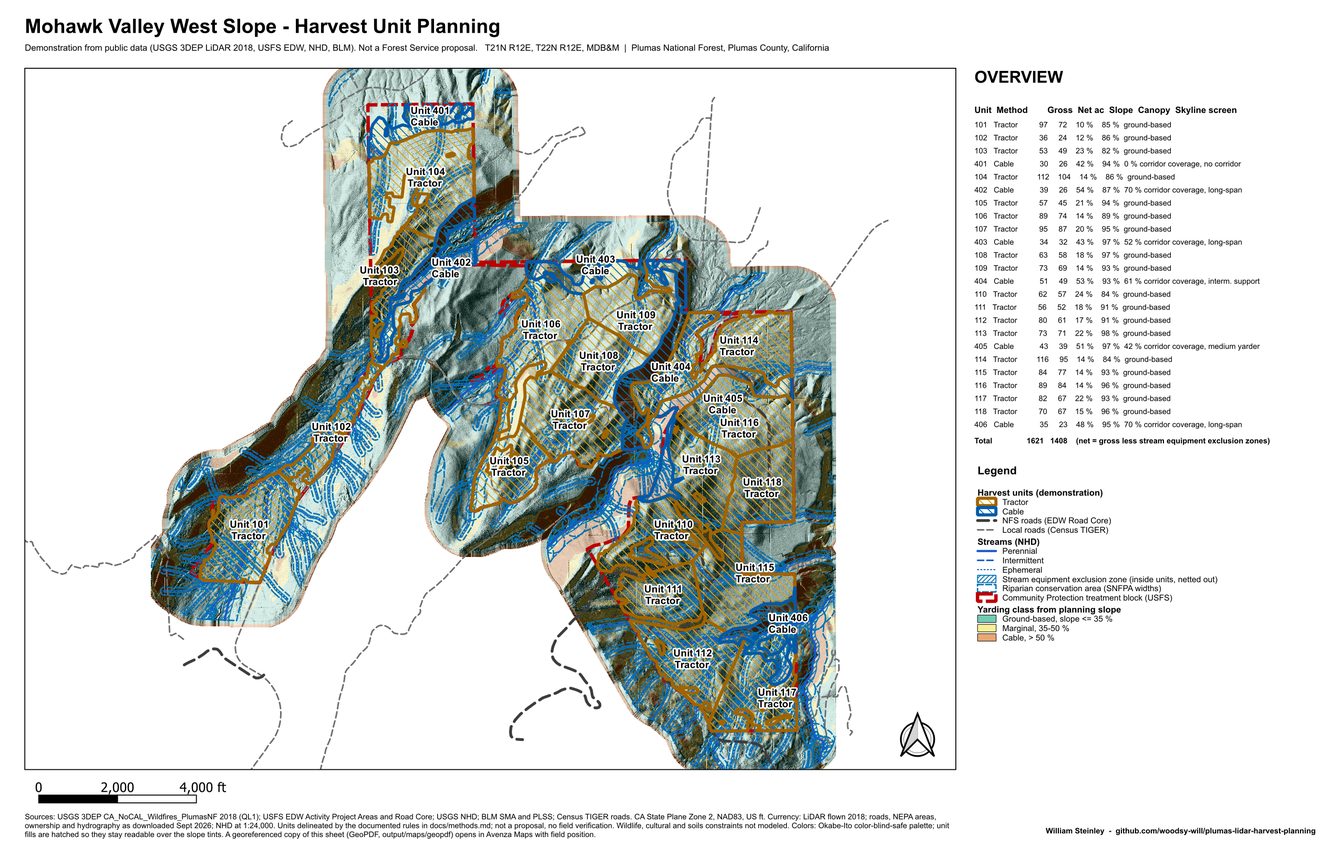
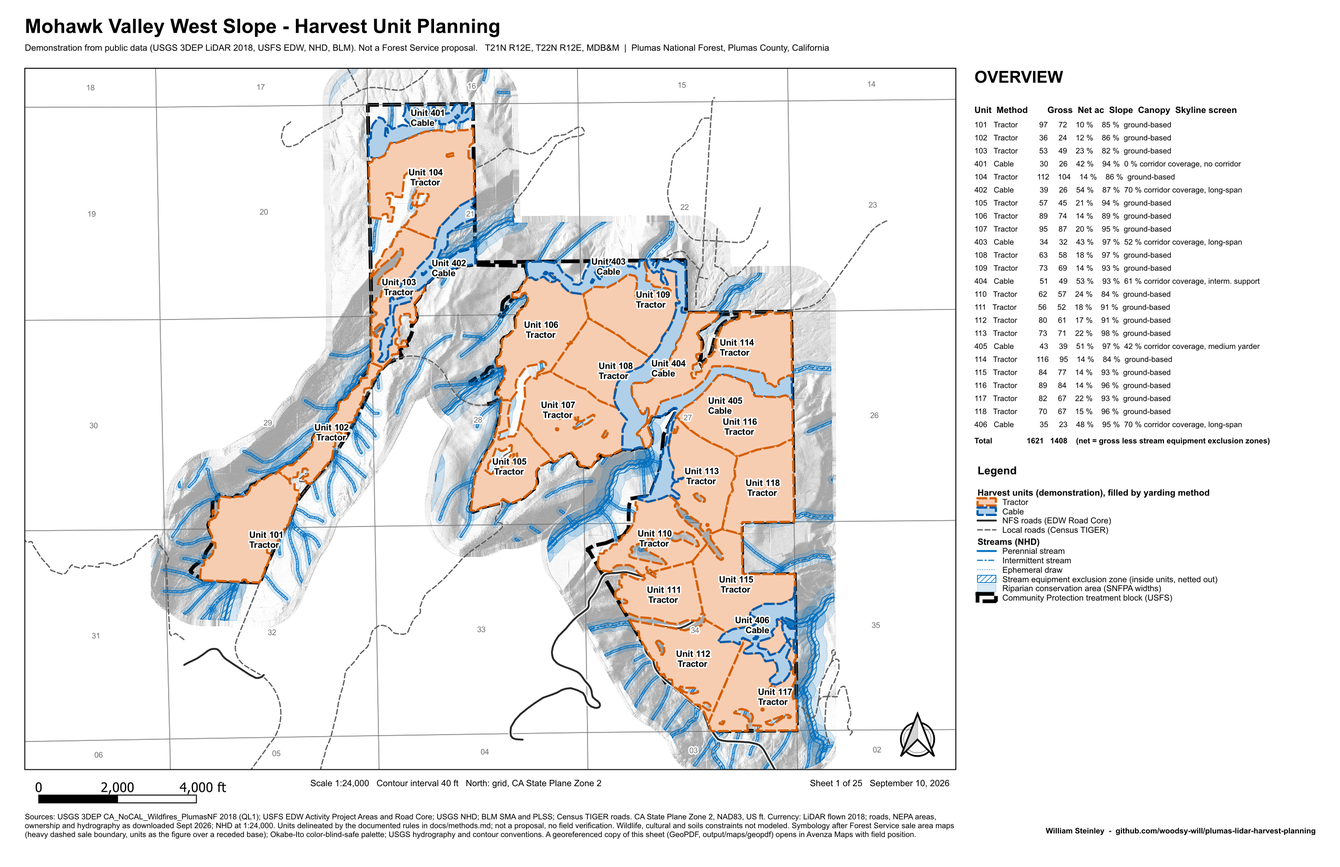
Symbology pass: sale-area-map hierarchy, pre-composed relief tint, cased method outlines, USGS hydrography and contour conventions, scale statement and sheet numbers; sources in docs/methods.md

diff --git a/scripts/05_unit_maps.py b/scripts/05_unit_maps.py
@@ -20,7 +20,7 @@ from qgis.core import (QgsCoordinateTransform, QgsMapLayerLegendUtils, QgsLegend
                        QgsUnitTypes, QgsVectorLayer, QgsVectorLayerSimpleLabeling, QgsRectangle, QgsLayoutItemMapOverview,
                        QgsLayoutItemShape, QgsLayoutItemPage, QgsLayerTreeLayer, QgsCategorizedSymbolRenderer, QgsRendererCategory,
                        QgsSimpleFillSymbolLayer, QgsLinePatternFillSymbolLayer, QgsFeatureRequest)
-from qgis.core import QgsRenderContext, QgsGeometry
+from qgis.core import QgsRenderContext, QgsGeometry, QgsSimpleLineSymbolLayer
 from qgis.PyQt.QtCore import QSizeF, Qt
 from qgis.PyQt.QtGui import QColor, QFont
 
@@ -28,7 +28,9 @@ ROOT = os.path.dirname(os.path.dirname(os.path.abspath(__file__)))
 RAW, WORK, OUT = (os.path.join(ROOT, p) for p in (os.path.join("data", "raw"), os.path.join("data", "work"), os.path.join("output", "maps")))
 os.makedirs(OUT, exist_ok=True)
 CRS = QgsCoordinateReferenceSystem("EPSG:2226")
+import datetime
 TITLE = "Mohawk Valley West Slope - Harvest Unit Planning"
+DATE = datetime.date.today().strftime("%B %d, %Y"); SHEET = [1, 25]
 SUBTITLE = "Demonstration from public data (USGS 3DEP LiDAR 2018, USFS EDW, NHD, BLM). Not a Forest Service proposal."
 
 QgsApplication.setPrefixPath(r"C:\Program Files\QGIS 3.44.12\apps\qgis-ltr", True)
@@ -81,50 +83,62 @@ def label(layer, expr, size=9, color="0,0,0", bold=True, buffer=True):
 
 # ---- layers ----
 gpkg = os.path.join(WORK, "planning.gpkg"); cable = os.path.join(WORK, "cable.gpkg")
-hill = QgsRasterLayer(os.path.join(WORK, "hillshade.tif"), "Hillshade (LiDAR DTM)")
-ycls = QgsRasterLayer(os.path.join(WORK, "yarding_class.tif"), "Yarding class from planning slope")
+hill = QgsRasterLayer(os.path.join(WORK, "hillshade.tif"), "Hillshade (LiDAR DTM)"); hill.renderer().setOpacity(0.35)   # overview and inset: subdued grey base
+relief = QgsRasterLayer(os.path.join(WORK, "relief_tint.tif"), "Relief tint: yarding class from planning slope over the LiDAR hillshade")   # unit sheets: composed once in 02c
+ycls = QgsRasterLayer(os.path.join(WORK, "yarding_class.tif"), "Yarding class from planning slope (shaded by the LiDAR hillshade)")   # legend swatches only
 from qgis.core import QgsPalettedRasterRenderer
-classes = [QgsPalettedRasterRenderer.Class(1, QColor(0, 158, 115, 70), "Ground-based, slope <= 35 %"),
-           QgsPalettedRasterRenderer.Class(2, QColor(240, 228, 66, 110), "Marginal, 35-50 %"),
-           QgsPalettedRasterRenderer.Class(3, QColor(213, 94, 0, 110), "Cable, > 50 %")]
-ycls.setRenderer(QgsPalettedRasterRenderer(ycls.dataProvider(), 1, classes)); ycls.renderer().setOpacity(0.55)
+classes = [QgsPalettedRasterRenderer.Class(1, QColor(206, 232, 222), "Ground-based, slope 35 % and under"),
+           QgsPalettedRasterRenderer.Class(2, QColor(248, 241, 190), "Marginal, 35 to 50 %"),
+           QgsPalettedRasterRenderer.Class(3, QColor(243, 205, 178), "Cable, over 50 %")]
+ycls.setRenderer(QgsPalettedRasterRenderer(ycls.dataProvider(), 1, classes))
 block = vl(os.path.join(RAW, "aoi.geojson"), None, "Community Protection treatment block (USFS)"); block.setSubsetString("role = 'treatment_block'")
-block.renderer().setSymbol(fill("0,0,0,0", "190,0,0,255", 1.1)); block.renderer().symbol().symbolLayer(0).setStrokeStyle(Qt.DashLine)
-sections = vl(os.path.join(RAW, "plss_sections.geojson"), None, "PLSS sections (BLM)"); sections.renderer().setSymbol(fill("0,0,0,0", "90,90,90,160", 0.3)); label(sections, "\"FRSTDIVNO\"", 7, "80,80,80", False)
+block.renderer().setSymbol(fill("0,0,0,0", "0,0,0,255", 1.2)); block.renderer().symbol().symbolLayer(0).setStrokeStyle(Qt.DashLine)   # sale area boundary: heavy black dash
+sections = vl(os.path.join(RAW, "plss_sections.geojson"), None, "PLSS sections (BLM)"); sections.renderer().setSymbol(fill("0,0,0,0", "110,110,110,150", 0.25)); label(sections, "\"FRSTDIVNO\"", 7, "110,110,110", False)
 rca = vl(gpkg, "rca_buffers", "Riparian conservation area (SNFPA widths)")
-rca.renderer().setSymbol(fill("0,0,0,0", "0,114,178,255", 0.45)); rca.renderer().symbol().symbolLayer(0).setStrokeStyle(Qt.DashLine)
+rca.renderer().setSymbol(fill("0,112,192,38", "0,112,192,90", 0.15))   # mapped only: a pale wash, so it never competes with the units
 eez = vl(gpkg, "eez_buffers", "Stream equipment exclusion zone (inside units, netted out)")
-eez.renderer().setSymbol(hatch((0, 114, 178), (0, 114, 178), angle=45, dist=1.0, lw=0.3, ow=0.3))
+eez.renderer().setSymbol(hatch((0, 112, 192), (0, 112, 192), angle=45, dist=1.2, lw=0.2, ow=0.25))
 streams = vl(gpkg, "streams_aoi", "Streams (NHD)")
 cats = []
-for cls, name, w, st in (("perennial", "Perennial", 0.7, "solid"), ("intermittent", "Intermittent", 0.5, "dash"), ("ephemeral", "Ephemeral", 0.35, "dot"), ("other", "Other NHD", 0.4, "solid")):
-    cats.append(QgsRendererCategory(cls, line("20,90,200,255", w, st), name))
+for cls, name, w, st, col in (("perennial", "Perennial stream", 0.6, "solid", "0,112,192,255"), ("intermittent", "Intermittent stream", 0.4, "dash dot", "0,112,192,230"), ("ephemeral", "Ephemeral draw", 0.25, "dot", "60,140,210,200"), ("other", "Other NHD", 0.4, "solid", "0,112,192,255")):
+    cats.append(QgsRendererCategory(cls, line(col, w, st), name))   # USGS hydrography blue; class by line pattern, readable under any color vision
 streams.setRenderer(QgsCategorizedSymbolRenderer("class", cats))
-roads = vl(os.path.join(RAW, "fs_roads.geojson"), None, "NFS roads (EDW Road Core)"); roads.renderer().setSymbol(line("60,60,60,255", 0.9, "dash")); label(roads, "\"id\"", 7, "60,60,60", False)
-tiger = vl(os.path.join(RAW, "tiger_roads.geojson"), None, "Local roads (Census TIGER)"); tiger.renderer().setSymbol(line("110,110,110,255", 0.5, "dash"))
+roads = vl(os.path.join(RAW, "fs_roads.geojson"), None, "NFS roads (EDW Road Core)"); rsym = QgsLineSymbol(); rsym.deleteSymbolLayer(0)
+for col, w in (((255, 255, 255, 230), 1.4), ((40, 40, 40, 255), 0.6)):
+    sl = QgsSimpleLineSymbolLayer(); sl.setColor(QColor(*col)); sl.setWidth(w); sl.setPenCapStyle(Qt.RoundCap); rsym.appendSymbolLayer(sl)
+roads.renderer().setSymbol(rsym); label(roads, "\"id\"", 7, "40,40,40", True)
+tiger = vl(os.path.join(RAW, "tiger_roads.geojson"), None, "Local roads (Census TIGER)"); tiger.renderer().setSymbol(line("90,90,90,255", 0.4, "dash"))
 contours = vl(gpkg, "contours", "Contours, 40 ft (index 200 ft)")
-ccats = [QgsRendererCategory(0, line("120,90,60,170", 0.18), "40 ft"), QgsRendererCategory(1, line("120,90,60,230", 0.42), "200 ft index")]
+ccats = [QgsRendererCategory(0, line("160,82,45,150", 0.16), "40 ft"), QgsRendererCategory(1, line("160,82,45,220", 0.34), "200 ft index")]   # USGS contour brown, held back so the units lead
 contours.setRenderer(QgsCategorizedSymbolRenderer("index", ccats)); contours.setSubsetString("index = 1 OR index = 0")
 cl_s = QgsPalLayerSettings(); cl_s.fieldName = "round(\"elev\")"; cl_s.isExpression = True; cl_s.enabled = True; cl_s.placement = QgsPalLayerSettings.Line
-cl_f = QgsTextFormat(); cl_f.setFont(QFont("Arial", 6)); cl_f.setSize(6); cl_f.setColor(QColor(110, 80, 50)); cl_f.buffer().setEnabled(True); cl_f.buffer().setSize(0.6); cl_s.setFormat(cl_f)
+cl_f = QgsTextFormat(); cl_f.setFont(QFont("Arial", 6)); cl_f.setSize(6); cl_f.setColor(QColor(140, 75, 40)); cl_f.buffer().setEnabled(True); cl_f.buffer().setSize(0.7); cl_s.setFormat(cl_f)
 from qgis.core import QgsRuleBasedLabeling
 cl_root = QgsRuleBasedLabeling.Rule(None); cl_rule = QgsRuleBasedLabeling.Rule(cl_s); cl_rule.setFilterExpression("\"index\" = 1"); cl_root.appendChild(cl_rule)
 contours.setLabelsEnabled(True); contours.setLabeling(QgsRuleBasedLabeling(cl_root))
 units = vl(gpkg, "units", "Harvest units (demonstration)")
-# sale-map convention: units filled by yarding method (light for ground-based, dark hatched for skyline)
-METHOD_COLORS = {"Tractor": ((230, 159, 0), (160, 100, 0)), "Cable": ((0, 114, 178), (0, 90, 170)), "Hand Thinning": ((0, 158, 115), (0, 120, 90))}   # Okabe-Ito fill, darker outline
+# method colors: Okabe-Ito vermillion for tractor, blue for cable, green for hand thinning (dark for lines, pale for fills)
+METHOD_COLORS = {"Tractor": ((213, 94, 0), (247, 205, 178)), "Cable": ((0, 90, 170), (176, 208, 234)), "Hand Thinning": ((0, 120, 90), (190, 228, 214))}
 present = {f["method"] for f in units.getFeatures()}
-ucats = [QgsRendererCategory(m, hatch(c, o), m) for m, (c, o) in METHOD_COLORS.items() if m in present]
+# unit sheets: cased outline by method, interior open so the slope tint inside the unit stays readable (figure over a receded base)
+ucats = [QgsRendererCategory(m, cased_outline(inner=o, outer=(255, 255, 255), wi=0.9, wo=2.2), m) for m, (o, f_) in METHOD_COLORS.items() if m in present]
 units.setRenderer(QgsCategorizedSymbolRenderer("method", ucats)); label(units, "concat('Unit ', \"unit_id\", '\\n', \"method\")", 9)
-units_plain = vl(gpkg, "units", "Harvest units"); units_plain.setRenderer(QgsCategorizedSymbolRenderer("method", [QgsRendererCategory(m, fill("0,0,0,0", ",".join(str(v) for v in o) + ",255", 0.5), m) for m, (c, o) in METHOD_COLORS.items()]))
-cur = vl(gpkg, "units", "This unit (black line, white casing)"); cur.renderer().setSymbol(cased_outline())
+# overview and inset: sale-area-map convention, units filled by method with a dashed dark outline (cutting unit boundary)
+units_plain = vl(gpkg, "units", "Harvest units (demonstration), filled by yarding method")
+pcats = []
+for m, (o, f_) in METHOD_COLORS.items():
+    if m in present:
+        sym = fill(",".join(str(v) for v in f_) + ",255", ",".join(str(v) for v in o) + ",255", 0.7); sym.symbolLayer(0).setStrokeStyle(Qt.DashLine); pcats.append(QgsRendererCategory(m, sym, m))
+units_plain.setRenderer(QgsCategorizedSymbolRenderer("method", pcats)); label(units_plain, "concat('Unit ', \"unit_id\", '\\n', \"method\")", 8)
+units_inset = vl(gpkg, "units", "units_inset"); units_inset.setRenderer(QgsCategorizedSymbolRenderer("method", [QgsRendererCategory(c.value(), c.symbol().clone(), c.label()) for c in pcats]))
+cur = vl(gpkg, "units", "This unit"); cur.renderer().setSymbol(cased_outline(wi=1.6, wo=3.6))
 have_cable = os.path.exists(cable)
 if have_cable:
-    corr = vl(cable, "corridors", "Feasible skyline corridors from selected landings (logs travel toward the landing)"); corr.setSubsetString("feasible = 1"); corr.renderer().setSymbol(line("0,114,178,220", 0.35))
+    corr = vl(cable, "corridors", "Feasible skyline corridors from the selected landings (logs travel toward the landing)"); corr.setSubsetString("feasible = 1"); corr.renderer().setSymbol(line("0,0,0,170", 0.3))
     landings = vl(cable, "landings", "Selected landings on roads, this unit"); landings.setSubsetString("corridors_ok > 0")
     landings.renderer().setSymbol(QgsMarkerSymbol.createSimple({"name": "triangle", "color": "240,228,66,255", "outline_color": "0,0,0,255", "size": "2.8"}))
-layers = [cur, units] + ([landings, corr] if have_cable else []) + [roads, tiger, streams, eez, rca, sections, block, contours, ycls, hill]
-proj.addMapLayer(units_plain, False)
+layers = [cur, units] + ([landings, corr] if have_cable else []) + [roads, tiger, streams, eez, rca, sections, block, contours, relief]
+proj.addMapLayer(units_plain, False); proj.addMapLayer(units_inset, False)
 for l in layers:
     proj.addMapLayer(l, False)
 root = proj.layerTreeRoot()
@@ -163,7 +177,7 @@ def make_layout(name, feat=None, extent=None, scale=None):
     layout = QgsPrintLayout(proj); layout.initializeDefaults(); layout.setName(name)
     page = layout.pageCollection().page(0); page.setPageSize("ANSI B", QgsLayoutItemPage.Landscape)   # 17 x 11 in = 431.8 x 279.4 mm
     W, H = 431.8, 279.4
-    m = QgsLayoutItemMap(layout); m.setKeepLayerSet(True); m.setLayers(layers if feat is not None else [units, roads, tiger, streams, eez, rca, block, ycls, hill])
+    m = QgsLayoutItemMap(layout); m.setKeepLayerSet(True); m.setLayers(layers if feat is not None else [units_plain, roads, tiger, streams, eez, rca, sections, block, hill])
     m.attemptMove(QgsLayoutPoint(8, 22, QgsUnitTypes.LayoutMillimeters)); m.attemptResize(QgsLayoutSize(300, 226, QgsUnitTypes.LayoutMillimeters)); m.setFrameEnabled(True)
     m.setCrs(CRS)
     if extent is not None:
@@ -208,8 +222,8 @@ def make_layout(name, feat=None, extent=None, scale=None):
     leg = QgsLayoutItemLegend(layout); leg.setTitle("Legend"); leg.setAutoUpdateModel(False); leg.setLinkedMap(m)
     mdl = leg.model().rootGroup(); mdl.clear()
     has_sel = bool(feat is not None and summary.get(int(feat["unit_id"]), {}).get("chosen_landings", ""))
-    skip = {hill, sections} | (set() if (not have_cable or has_sel) else {landings, corr})
-    for l in ([x for x in layers if x not in skip] if feat is not None else [units, roads, tiger, streams, eez, rca, block, ycls]):
+    skip = {relief, sections} | (set() if (not have_cable or has_sel) else {landings, corr})
+    for l in ([x for x in layers if x not in skip] + [ycls] if feat is not None else [units_plain, roads, tiger, streams, eez, rca, block]):
         node = mdl.addLayer(l)
         if l is ycls:                                            # hide the raster band-name node, keep the three classes
             QgsMapLayerLegendUtils.setLegendNodeOrder(node, [1, 2, 3]); leg.model().refreshLayerLegend(node)
@@ -222,13 +236,15 @@ def make_layout(name, feat=None, extent=None, scale=None):
     leg.attemptMove(QgsLayoutPoint(px, ly, QgsUnitTypes.LayoutMillimeters)); leg.attemptResize(QgsLayoutSize(pw, 100, QgsUnitTypes.LayoutMillimeters)); layout.addLayoutItem(leg)
     sb = QgsLayoutItemScaleBar(layout); sb.setLinkedMap(m); sb.setStyle("Single Box"); sb.setUnits(QgsUnitTypes.DistanceFeet); sb.setUnitLabel("ft"); sb.setNumberOfSegments(2); sb.setNumberOfSegmentsLeft(0); sb.setUnitsPerSegment(1000 if scale and scale <= 12000 else 2000)
     sb.setHeight(2.5); sb.setLabelBarSpace(1); sb.attemptMove(QgsLayoutPoint(10, 250, QgsUnitTypes.LayoutMillimeters)); layout.addLayoutItem(sb)
+    add_label(layout, f"Scale 1:{int(round(m.scale())):,}   Contour interval 40 ft   North: grid, CA State Plane Zone 2", 100, 251, 150, 6, 8)
+    add_label(layout, f"Sheet {SHEET[0]} of {SHEET[1]}   {DATE}", 250, 251, 56, 6, 8, False, Qt.AlignRight)
     north = QgsLayoutItemPicture(layout); north.setPicturePath(os.path.join(QgsApplication.prefixPath(), "svg", "arrows", "NorthArrow_02.svg")); north.attemptMove(QgsLayoutPoint(290, 226, QgsUnitTypes.LayoutMillimeters)); north.attemptResize(QgsLayoutSize(14, 18, QgsUnitTypes.LayoutMillimeters)); layout.addLayoutItem(north)
     if feat is not None:
-        ins = QgsLayoutItemMap(layout); ins.setKeepLayerSet(True); ins.setLayers([cur, units_plain, block, hill]); ins.setCrs(CRS); ins.attemptMove(QgsLayoutPoint(px, 230, QgsUnitTypes.LayoutMillimeters)); ins.attemptResize(QgsLayoutSize(pw, 34, QgsUnitTypes.LayoutMillimeters)); ins.zoomToExtent(block_ext.buffered(1500)); ins.setFrameEnabled(True)
+        ins = QgsLayoutItemMap(layout); ins.setKeepLayerSet(True); ins.setLayers([cur, units_inset, block, hill]); ins.setCrs(CRS); ins.attemptMove(QgsLayoutPoint(px, 230, QgsUnitTypes.LayoutMillimeters)); ins.attemptResize(QgsLayoutSize(pw, 34, QgsUnitTypes.LayoutMillimeters)); ins.zoomToExtent(block_ext.buffered(1500)); ins.setFrameEnabled(True)
         ov = QgsLayoutItemMapOverview("cur", ins); ov.setLinkedMap(m); ov.setFrameSymbol(fill("255,0,0,40", "255,0,0,255", 0.5)); ins.overviews().addOverview(ov); layout.addLayoutItem(ins)
     add_label(layout, "Sources: USGS 3DEP CA_NoCAL_Wildfires_PlumasNF 2018 (QL1); USFS EDW Activity Project Areas and Road Core; USGS NHD; BLM SMA and PLSS; Census TIGER roads. "
                       "CA State Plane Zone 2, NAD83, US ft. Currency: LiDAR flown 2018; roads, NEPA areas, ownership and hydrography as downloaded Sept 2026; NHD at 1:24,000. Units delineated by the documented rules in docs/methods.md; "
-                      "not a proposal, no field verification. Wildlife, cultural and soils constraints not modeled. Colors: Okabe-Ito color-blind-safe palette; unit fills are hatched so they stay readable over the slope tints. "
+                      "not a proposal, no field verification. Wildlife, cultural and soils constraints not modeled. Symbology after Forest Service sale area maps (heavy dashed sale boundary, units as the figure over a receded base); Okabe-Ito color-blind-safe palette; USGS hydrography and contour conventions. "
                       "A georeferenced copy of this sheet (GeoPDF, output/maps/geopdf) opens in Avenza Maps with field position.",
               8, 262, 300, 14, 7)
     add_label(layout, "William Steinley  -  github.com/woodsy-will/plumas-lidar-harvest-planning", px, 266.5, pw, 6, 7, True, Qt.AlignRight)
@@ -254,19 +270,26 @@ cur.setSubsetString("unit_id = -1")
 lay, m = make_layout("Overview", None, block_ext.buffered(600), scale=24000); export(lay, "Overview")   # the quadrangle scale
 # per unit
 pages = []
+ONLY = {int(u) for u in os.environ.get("ONLY_UNITS", "").split()} if os.environ.get("ONLY_UNITS") else None   # ONLY_UNITS="404 101" renders a subset for design checks
 for f in units.getFeatures():
-    uid = f["unit_id"]; ext = f.geometry().boundingBox(); ext = ext.buffered(max(ext.width(), ext.height()) * 0.2 + 250)
+    uid = f["unit_id"]
+    if ONLY and int(uid) not in ONLY:
+        continue
+    ext = f.geometry().boundingBox(); ext = ext.buffered(max(ext.width(), ext.height()) * 0.2 + 250)
     cur.setSubsetString(f"unit_id = {uid}")
     if have_cable:
         chosen = summary.get(int(uid), {}).get("chosen_landings", "").split()
         sel = " AND landing_id IN (" + ",".join(chosen) + ")" if chosen else ""
         corr.setSubsetString(f"feasible = 1 AND unit_id = {uid}{sel}"); landings.setSubsetString(f"unit_id = {uid}{sel if chosen else ' AND corridors_ok > 0'}")
-    lay, m = make_layout(f"Unit {uid}", f, ext)
-    # keep a readable round scale
-    sc = m.scale(); sc = min(s for s in (2400, 3000, 3600, 4800, 6000, 7200, 9600, 12000, 15000, 20000) if s >= sc) if sc <= 20000 else sc
-    m.setScale(sc); m.setExtent(m.extent()); export(lay, f"Unit_{uid}"); pages.append(os.path.join(OUT, f"Unit_{uid}.pdf"))
+    SHEET[0] += 1
+    sc = max(ext.width() / (300 / 304.8), ext.height() / (226 / 304.8))   # scale that fits the extent in the 300 x 226 mm map (extent in US ft)
+    sc = min(s for s in (2400, 3000, 3600, 4800, 6000, 7200, 9600, 12000, 15000, 20000) if s >= sc) if sc <= 20000 else sc   # readable round scale
+    lay, m = make_layout(f"Unit {uid}", f, ext, scale=sc)
+    export(lay, f"Unit_{uid}"); pages.append(os.path.join(OUT, f"Unit_{uid}.pdf"))
 # merge
 try:
+    if ONLY:
+        raise RuntimeError("subset run, no merge")
     from pypdf import PdfWriter
     w = PdfWriter()
     for p in [os.path.join(OUT, "Overview.pdf")] + pages:

diff --git a/scripts/02c_relief_tint.py b/scripts/02c_relief_tint.py
@@ -1,0 +1,44 @@
+"""02c_relief_tint.py - one pre-composed relief-tint raster for the unit sheets.
+
+Cartographic rule (Patterson, shadedrelief.com; Esri design principles): the base must recede so the units read as
+the figure. Shadow values are held to 70 % or lighter, the class tints are pale and desaturated, and the hillshade is
+multiplied into the tint once here rather than blended in the layout, so the map export stays vector and no
+translucent fill can blend into a third color. Output data/work/relief_tint.tif, RGBA, 3 ft cells.
+Run: python-qgis-ltr.bat scripts\02c_relief_tint.py
+"""
+import os
+
+import numpy as np
+from osgeo import gdal
+
+gdal.UseExceptions()
+ROOT = os.path.dirname(os.path.dirname(os.path.abspath(__file__)))
+WORK = os.path.join(ROOT, "data", "work")
+# pale tints of the Okabe-Ito hues used everywhere else (ground-based green, marginal yellow, cable vermillion)
+TINT = {1: (206, 232, 222), 2: (248, 241, 190), 3: (243, 205, 178)}
+SHADOW_MAX = 0.62     # darkest a shadow may go (1 = no darkening); Patterson recommends shadows no darker than 70 %
+
+hs_ds = gdal.Open(os.path.join(WORK, "hillshade.tif")); hs = hs_ds.GetRasterBand(1).ReadAsArray().astype("float32")
+yc_ds = gdal.Open(os.path.join(WORK, "yarding_class.tif")); yc = yc_ds.GetRasterBand(1).ReadAsArray()
+valid = hs > 0
+lum = 1.0 - (1.0 - SHADOW_MAX) * (1.0 - hs / 255.0)          # 1 in full light, SHADOW_MAX in full shadow
+lum = np.clip(lum, SHADOW_MAX, 1.0)
+rgb = np.zeros(hs.shape + (3,), dtype="float32")
+for k, c in TINT.items():
+    m = yc == k
+    for i in range(3):
+        rgb[..., i][m] = c[i]
+none = valid & ~np.isin(yc, list(TINT))                          # hillshade where no class (outside the DTM or nodata class)
+for i in range(3):
+    rgb[..., i][none] = 235
+out = np.clip(rgb * lum[..., None], 0, 255).astype("uint8")
+alpha = np.where(valid, 255, 0).astype("uint8")
+
+drv = gdal.GetDriverByName("GTiff"); dst = os.path.join(WORK, "relief_tint.tif")
+ds = drv.Create(dst, hs_ds.RasterXSize, hs_ds.RasterYSize, 4, gdal.GDT_Byte, options=["COMPRESS=DEFLATE", "PREDICTOR=2", "TILED=YES", "PHOTOMETRIC=RGB", "ALPHA=YES"])
+ds.SetGeoTransform(hs_ds.GetGeoTransform()); ds.SetProjection(hs_ds.GetProjection())
+for i in range(3):
+    ds.GetRasterBand(i + 1).WriteArray(out[..., i])
+ds.GetRasterBand(4).WriteArray(alpha); ds.GetRasterBand(4).SetColorInterpretation(gdal.GCI_AlphaBand)
+ds.BuildOverviews("AVERAGE", [2, 4, 8, 16]); ds = None
+print("relief tint written:", dst, round(os.path.getsize(dst) / 1e6, 1), "MB; luminosity range", float(lum[valid].min()), "to", float(lum[valid].max()))

diff --git a/docs/methods.md b/docs/methods.md
@@ -91,13 +91,29 @@ minimum, follow the *Best Practice Guidelines for Cable Logging* (New Zealand FI
 deflection the loaded skyline tension is about 60 % higher than at 10 %, and below that payloads fall off
 quickly.
 
-## Map conventions
+## Map conventions and symbology
 
-The unit sheets and overview follow the layout of a Forest Service sale area map: cutting units filled by
-yarding method, the sale or treatment block boundary, streamcourse protection areas, existing transportation
-with road numbers, contour lines with labeled index contours, PLSS sections with township and range in the
-title block, a unit table, north arrow and bar scale on an 11x17 sheet. Contract clause references
-(B1.1, C6.42 and the like) are omitted because there is no contract.
+The unit sheets and overview follow the layout of a Forest Service sale area map: cutting units, the sale or
+treatment block boundary, streamcourse protection areas, existing transportation with road numbers, contour
+lines with labeled index contours, PLSS sections with township and range in the title block, a unit table,
+north arrow, bar scale and scale statement on an 11x17 sheet. Contract clause references (B1.1, C6.42 and the
+like) are omitted because there is no contract.
+
+The symbology was reworked against published guidance and a current Forest Service example, and the choices
+are these:
+
+| Element | Choice | Basis |
+|---|---|---|
+| Visual hierarchy | The units are the figure: cased outlines colored by method with bold labels; everything else recedes. Overview uses pale method fills with a dashed dark outline, the cutting-unit convention. | Willamette NF LFC SBA sale area map (2025): units as the only filled features, heavy dashed sale boundary, grey base; Esri design principles on figure-ground and contrast |
+| Sale boundary | Heavy black long dash | Same sale area map; a line pattern reads under any color vision |
+| Relief base | Multidirectional hillshade multiplied into pale class tints once in `02c_relief_tint.py`; shadows held to 62 % luminosity, tints desaturated | Patterson (shadedrelief.com): shadows no darker than 70 %, muted colors so relief does not muddy the map; Esri: base at 30 to 50 % strength; empirical overlay study (opacity 20 to 70 % acceptable, outlines extend the range) |
+| Why one composed raster | Blending translucent fills in the layout produced third colors (blue over yellow read as green) and would have forced the PDF export to raster | Jenny and Kelso 2007 on redundant variables and confusable blends; measured in this project |
+| Method colors | Okabe-Ito vermillion (tractor), blue (cable), green (hand thinning); pale versions for fills, dark for lines | Okabe and Ito palette; Jenny and Kelso 2007 (dark green, brown, orange and red collapse for red-green impaired readers, so method is also carried by the label) |
+| Hydrography | USGS blue; perennial solid, intermittent dash-dot, ephemeral dotted; riparian conservation areas as a pale wash; equipment exclusion zones as a fine hatch inside units | USGS topographic map symbol standard; class carried by line pattern, not hue |
+| Contours | USGS brown, 40 ft with 200 ft index, held to low opacity | USGS standard (brown, index heavier); hierarchy |
+| Roads | System roads as a cased dark line with the road number; local roads thin grey dash | USGS road classes; sale area map road numbers |
+| Corridors and landings | Thin neutral black corridors, yellow triangle landings with black edge | Avoids a second blue family next to hydrography |
+| Marginalia | Scale statement, contour interval, north reference, sheet number and date beside the bar scale | Standard map elements; sale area map title block |
 
 ## Canopy height model and pits
 

diff --git a/README.md b/README.md
@@ -91,7 +91,9 @@ sale-level QA table opens the merged review PDF; four units come up short of the
 
 Map layout after Forest Service sale area maps: units filled by yarding method, treatment block boundary,
 streamcourse protection, roads with numbers, 40 ft contours with 200 ft index, PLSS with township and
-range, unit table, 11x17, as vector print PDF (300 dpi rasters) and as GeoPDF for Avenza. Okabe-Ito color-blind-safe palette
+range, unit table, 11x17, as vector print PDF (300 dpi rasters) and as GeoPDF for Avenza. Symbology
+reworked against a current Forest Service sale area map, Patterson's relief-shading guidance, Jenny and Kelso's
+color-vision recommendations and USGS topographic conventions (table in `docs/methods.md`). Okabe-Ito color-blind-safe palette
 throughout. GeoPackage deliverable with layer descriptions and FGDC / ISO 19115 summary metadata
 (`docs/data_dictionary.md`). Output checked against print, web, WCAG contrast and color-vision standards
 by measurement (table in `docs/methods.md`). Cable screen definitions and the downhill-yarding rule from the Forest Service
@@ -123,6 +125,7 @@ kept in git. JPEG previews of everything are in `output/previews`.
 | `01_get_data.py` | public vectors to `data/raw`; `ept_fetch.py` pulls the LiDAR nodes |
 | `02_build_terrain.py` | DTM, DSM, CHM, slope, planning slope, aspect, hillshade, cover, dominant height, yarding class |
 | `02b_quicklooks.py` | color quicklooks of the products |
+| `02c_relief_tint.py` | pre-composed relief tint (hillshade x pale yarding-class tints) for the unit sheets |
 | `03_delineate_units.py` | demonstration units, riparian and exclusion buffers, clipped streams |
 | `04_cable_analysis.py` | landings, corridors, per-unit skyline feasibility |
 | `04b_cable_figures.py` | profile sheets, route tables, corridor maps, all sale-level figures, EYD and AYD, from the saved corridors |
